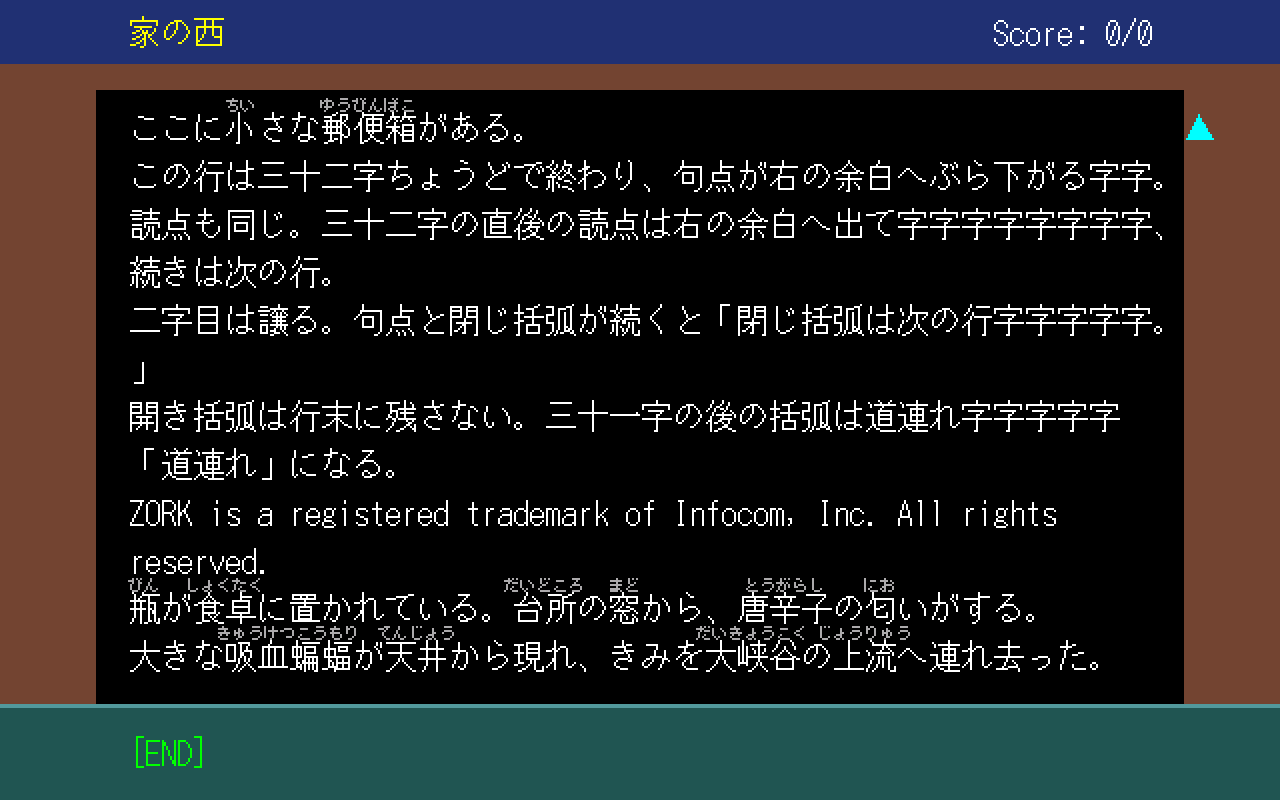
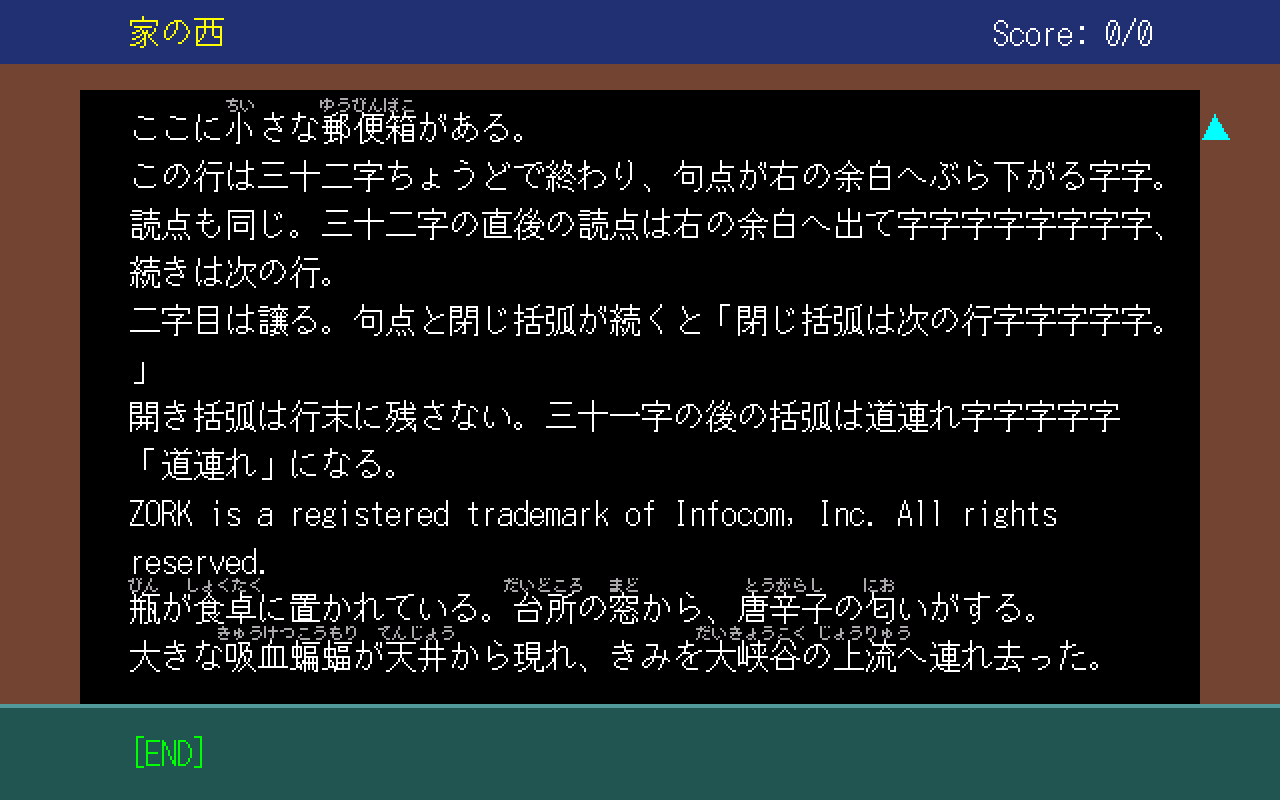
feat(pc98): 左右の装飾を 40px に狭める・QuuBee にドロップする ZIP を作る台本
公開版の QuuBee で遊んで、禁則でぶら下げた句読点・音引きの右が詰まって
見えたので、装飾を 48 → 40px にした（塗りがバイト単位なので 8 の倍数）。
窓の外に続きがある印（▲▼）は装飾の上（600〜615）へ移した。試作の寸法も揃えた。

pack-pc98.sh は ZENMAI.BAT（SET DOS16M=1）・説明書・ライセンスの全文を
入れた zenmai98.zip を作る（文書は Shift_JIS・CRLF）。

Claude-Session: https://claude.ai/code/session_01LwW8FkvLkJY6YeS67WmDxu

Changed region(s): [[0.9062, 0.0938, 0.9688, 0.875], [0.0625, 0.0938, 0.0938, 0.875]]

diff --git a/pc98-mock/gen_screen.py b/pc98-mock/gen_screen.py
@@ -3,7 +3,7 @@
 
   上の帯      0〜31    場所 (左・黄) と状態 (右) を 0 行目に。字 8〜23 の上下に 8 ずつ
   本文の上    32〜44   装飾と同じ色 (本文 1 行目のふりがなの上端 49 の 4 ラスタ上まで)
-  左右の装飾  幅 48    縁の線は描かない
+  左右の装飾  幅 40    縁の線は描かない (48 だとぶら下げた句読点の右が詰まって見えた・2026-09-28)
   本文        2〜13 行目・横 64〜575 (1 行 全角 32 字)
   入力欄の枠  352〜399 15 行目の字 368〜383 の上下に 16 ずつ。上に 2px の縁
 
@@ -14,8 +14,8 @@ import os, sys
 sys.path.insert(0, os.path.dirname(__file__))
 import layout as L
 
-L.MARGIN = 64                 # 本文の左端 (装飾 48 + 16)。1 行 = 全角 32 字
-SIDE = 48                     # 左右の装飾の幅
+L.MARGIN = 64                 # 本文の左端 (装飾 40 + 24)。1 行 = 全角 32 字
+SIDE = 40                     # 左右の装飾の幅 (本体の DECO_W と同じ)
 TOP_H = 32                    # 上の帯 0〜31 (0 行目の字 8〜23 の上下に 8 ずつ)
 IN_Y = 352                    # 入力欄の枠の上端。15 行目の字 368〜383 の上下に 16 ずつ
 BODY_LAST = 13                # 本文の最終行 (字 320〜335)

diff --git a/native/render_pc98.c b/native/render_pc98.c
@@ -252,7 +252,7 @@ static void draw_row(int r, const VLine *v)
 {
     const int row = BODY_ROW0 + r, y = row * TXT_RASTERS;
     txt_clear(row, row, TA_WHITE);
-    gfx_rect(RUBY_X_MIN - 8, y, RUBY_X_MAX, y + RUBY_BAND, 0);   /* ふりがなの帯を消す */
+    gfx_rect(DECO_W, y, RUBY_X_MAX, y + RUBY_BAND, 0);   /* ふりがなの帯を消す（左右の装飾の内側） */
     if (!v) return;
     int col = BODY_COL0;
     for (int i = 0; i < v->n; i++)
@@ -269,11 +269,11 @@ static void draw_window(void)
         const long i = view + r;
         draw_row(r, i >= hist_min() && i < total ? &hist[i % HIST_N] : 0);
     }
-    /* 窓の外に続きがあることの印（右の余白の端） */
+    /* 窓の外に続きがあることの印（右の装飾の上） */
     if (view > hist_min())
-        txt_put(BODY_ROW0, BODY_COL0 + BODY_CELLS + HANG_CELLS, 0x25B2, TA_CYAN);          /* ▲ */
+        txt_put(BODY_ROW0, MARK_COL, 0x25B2, TA_CYAN);                    /* ▲ */
     if (view + BODY_ROWS < total)
-        txt_put(BODY_ROW0 + BODY_ROWS - 1, BODY_COL0 + BODY_CELLS + HANG_CELLS, 0x25BC, TA_CYAN);  /* ▼ */
+        txt_put(BODY_ROW0 + BODY_ROWS - 1, MARK_COL, 0x25BC, TA_CYAN);    /* ▼ */
 }
 
 static long bottom(void)

diff --git a/native/render_pc98.h b/native/render_pc98.h
@@ -12,7 +12,10 @@ enum {
     RUBY_W = 8, RUBY_DY = 1,           /* ふりがな: 8×8 の枠。帯の中で 1 ラスタ下げる（本文に接してよい） */
     RUBY_BAND = 8,                     /* 行の頭の 8 ラスタ */
     RUBY_COLOR = 8,                    /* 灰（グラフィックのパレット 8） */
-    RUBY_X_MIN = 56, RUBY_X_MAX = 592, /* 読みがはみ出してよい範囲（左右の装飾の内側） */
+    DECO_W = 40,                       /* 左右の装飾の幅。★48 だと、ぶら下げた句読点・音引きの右が詰まって見えた（QuuBee で遊んでの判断・2026-09-28）。
+                                          ★8 の倍数に保つ（グラフィックの塗りはバイト = 8px 単位） */
+    RUBY_X_MIN = 56, RUBY_X_MAX = 640 - DECO_W,   /* 読みがはみ出してよい範囲（左右の装飾の内側） */
+    MARK_COL = 75,                     /* 窓の外に続きがある印（▲▼）の桁 = 横 600〜615（右の装飾の上） */
 };
 
 extern FILE *render_log;               /* 開いておくと積んだ論理行を UTF-8 で書く */

diff --git a/native/main_pc98.c b/native/main_pc98.c
@@ -7,7 +7,7 @@
  * 画面（1 行 24 ラスタ × 16 行。寸法と色は試作 pc98-mock/gen_screen.py と同じ・色は仮）:
  *   上の帯      縦 0〜31    0 行目に場所（左・黄）と得点（右）
  *   本文の上    縦 32〜44   装飾と同じ色
- *   左右の装飾  幅 48
+ *   左右の装飾  幅 40（DECO_W）
  *   本文        2〜13 行目・横 64〜575（全角 32 字 × 12 行）
  *   入力欄の枠  縦 352〜399 15 行目。上に 2px の縁
  *
@@ -55,7 +55,7 @@ static void draw_chrome(void)
     gfx_palette(C_INPUT, 5, 2, 5);     /* 入力欄の枠 */
     gfx_palette(C_INPUT_EDGE, 9, 5, 9);
     gfx_palette(RUBY_COLOR, 10, 10, 10);
-    enum { TOP_H = 32, SIDE = 48, IN_Y = 352,
+    enum { TOP_H = 32, SIDE = DECO_W, IN_Y = 352,
            TOP_DECO = BODY_ROW0 * TXT_RASTERS + RUBY_DY - 4 };   /* 本文 1 行目のふりがなの 4 ラスタ上 */
     gfx_rect(0, 0, GFX_W, TOP_H, C_BAND);
     gfx_rect(0, TOP_H, SIDE, IN_Y, C_DECO);
